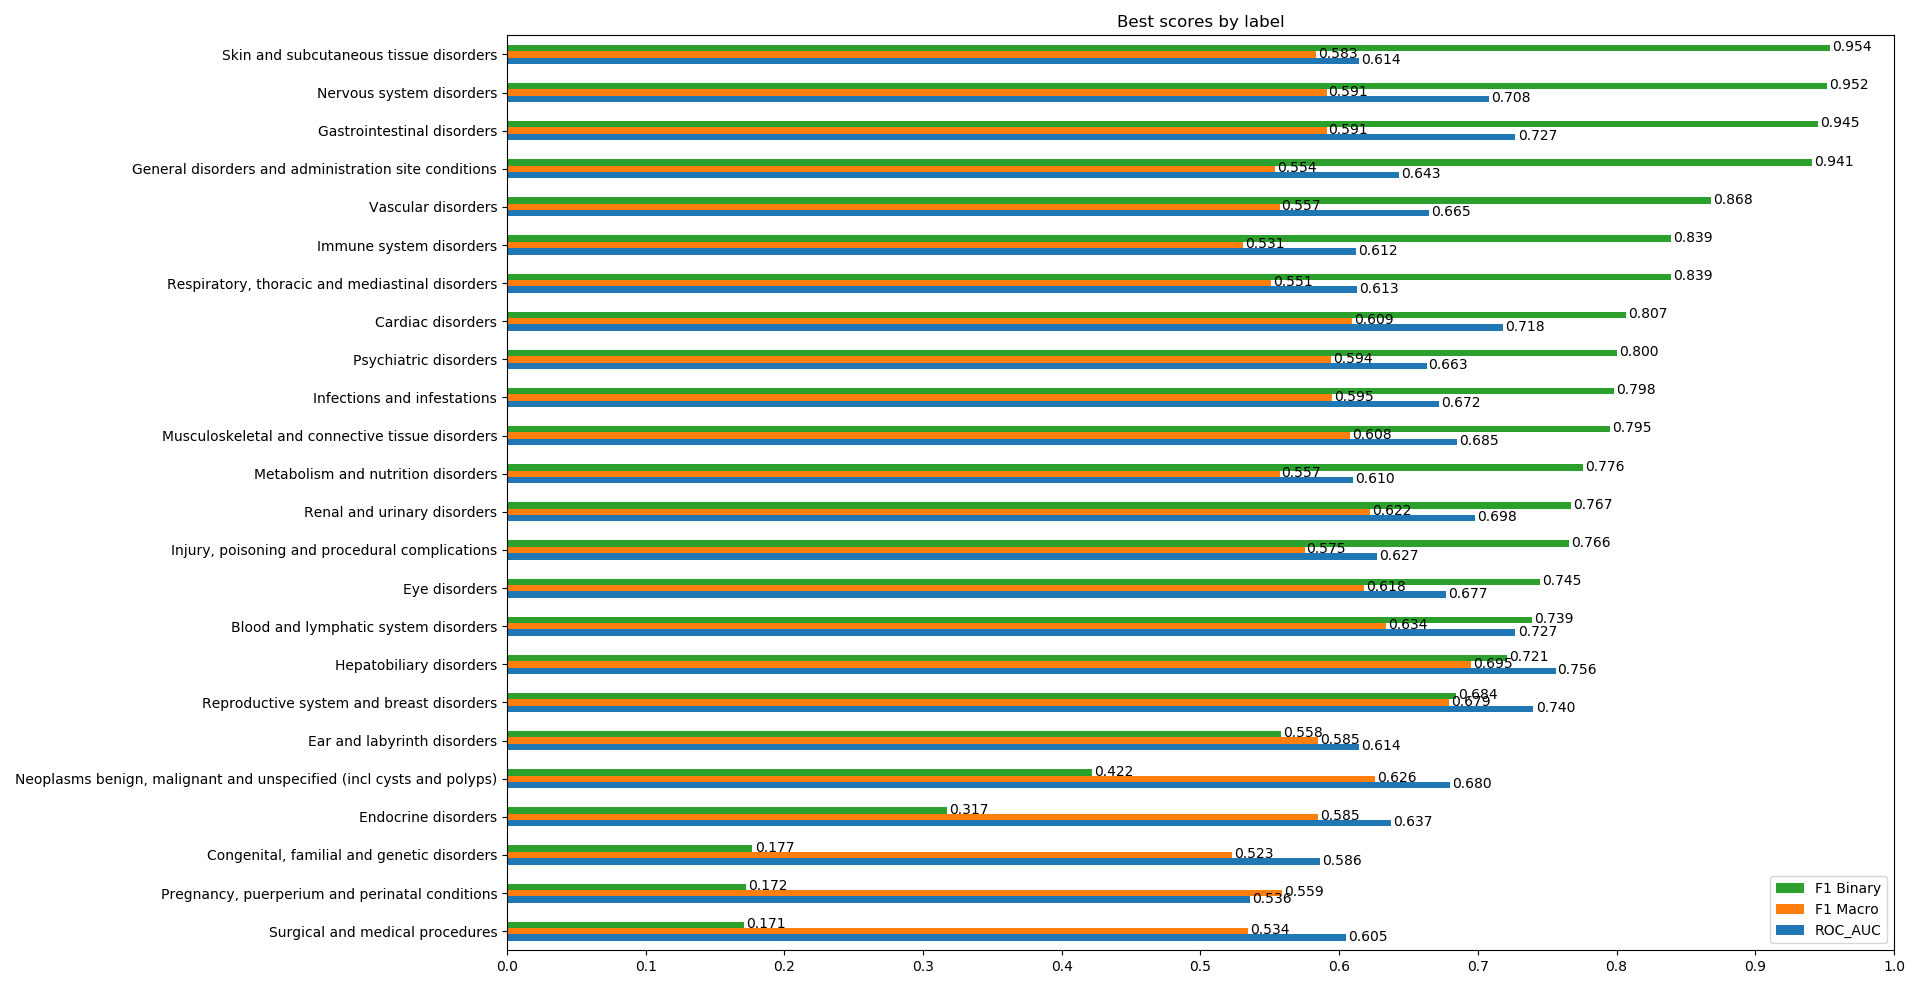
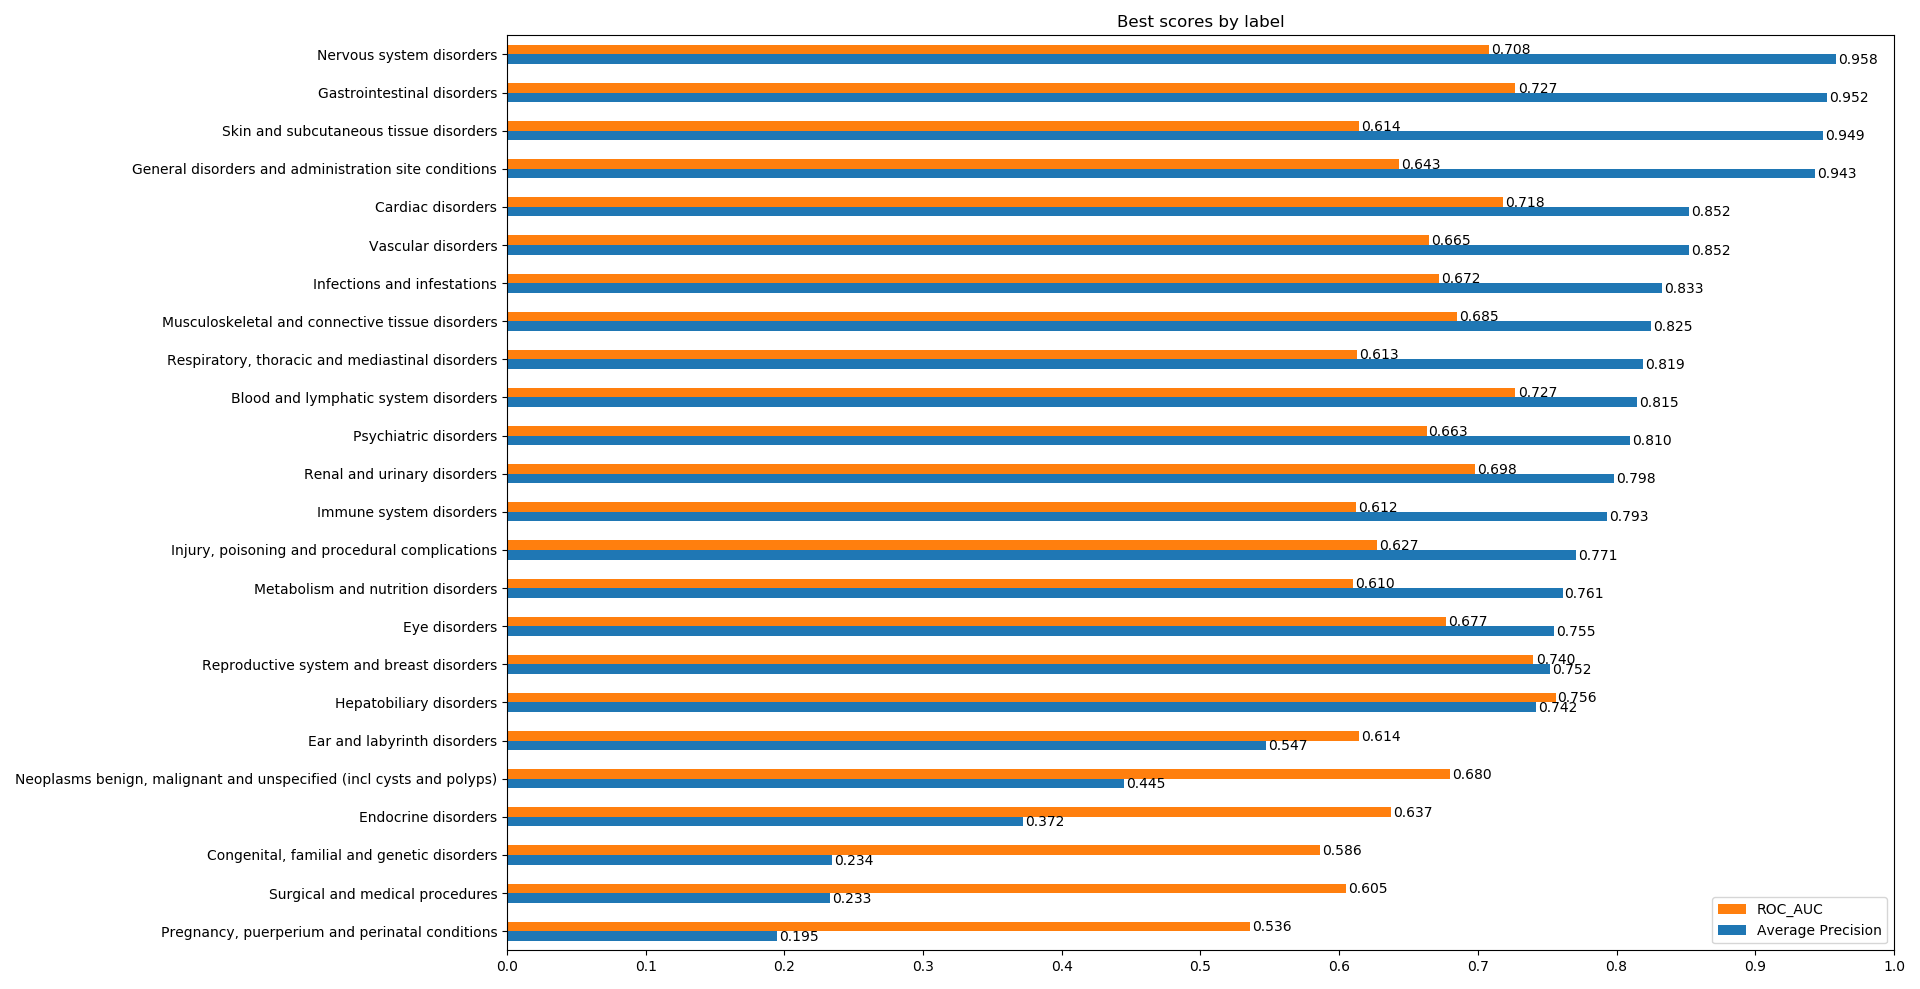
Add new metric, update results

diff --git a/mlprocess.py b/mlprocess.py
@@ -13,11 +13,10 @@ import xgboost as xgb
 
 # Misc
 from rdkit import Chem
-from sklearn.decomposition import PCA
 from sklearn.model_selection import GridSearchCV, cross_validate, RandomizedSearchCV, StratifiedKFold
 from sklearn.feature_selection import SelectKBest, f_classif
 from sklearn.metrics import classification_report, confusion_matrix, precision_score, recall_score, f1_score, \
-    accuracy_score, roc_auc_score
+    roc_auc_score, precision_recall_curve, average_precision_score
 from imblearn.pipeline import make_pipeline
 from imblearn.over_sampling import SMOTENC
 from collections import Counter
@@ -398,8 +397,8 @@ def random_search(X_train, y_train, model, params_to_test, X_test=None, y_test=N
 
 
 def multi_label_random_search(X_train_dic, y_train, out_names, model, params_to_test, balancing=False, X_test=None,
-                              y_test=None,
-                              n_iter=100, n_splits=5, scoring="f1", n_jobs=-1, verbose=False, random_state=None):
+                              y_test=None, n_iter=100, n_splits=5, scoring="f1", n_jobs=-1, verbose=False,
+                              random_state=None):
     # Creates a dictionary with the best params in regards to chosen metric for each label
 
     # Creates the dictionary
@@ -427,9 +426,11 @@ def multi_label_random_search(X_train_dic, y_train, out_names, model, params_to_
     return best_params_by_label
 
 
-def score_report(estimator, X_test, y_test, verbose=False):
+def score_report(estimator, X_test, y_test, verbose=False, plot=False, name=None):
     # Predicting value
     y_true, y_pred = y_test, estimator.predict(X_test)
+    y_score = estimator.predict_proba(X_test)
+    y_score = y_score[:, 1]
 
     # Individual metrics
     f1_micr_score = f1_score(y_true, y_pred, average="micro")
@@ -438,6 +439,7 @@ def score_report(estimator, X_test, y_test, verbose=False):
     auc = roc_auc_score(y_true, y_pred)
     rec = recall_score(y_true, y_pred, average="binary")
     prec = precision_score(y_true, y_pred, average="binary")
+    average_precision = average_precision_score(y_true, y_score)
 
     # Detailed Classification report
     if verbose:
@@ -464,14 +466,35 @@ def score_report(estimator, X_test, y_test, verbose=False):
         print(f"ROC-AUC score: {auc:.3f}")
         print(f"Recall score: {rec:.3f}")
         print(f"Precision score: {prec:.3f}")
+        print(f"Average precision-recall score: {average_precision:.3f}")
         print()
 
+        if plot:
+            precision, recall, _ = precision_recall_curve(y_true, y_score)
+
+            # step_kwargs = ({'step': 'post'}
+            #                if 'step' in signature(plt.fill_between).parameters
+            #                else {})
+
+            plt.step(recall, precision, color="r", alpha=0.2, where="post")
+            plt.fill_between(recall, precision, step="post", alpha=0.2, color="#F59B00")
+
+            plt.xlabel("Recall")
+            plt.ylabel("Precision")
+            plt.ylim([0.0, 1.05])
+            plt.xlim([0.0, 1.0])
+            plt.title(f'{name} \n Precision-Recall curve: AP={average_precision:0.2f}')
+
+            plt.savefig(f"./results/{name} Precision-Recall curve.png")
+
+            plt.clf()
+
         return {"f1_micr_score": f1_micr_score, "auc_score": auc, "rec_score": rec, "prec_score": prec,
-                "f1_macro_score": f1_macro_score, "f1_s_score": f1_s_score, }
+                "f1_macro_score": f1_macro_score, "f1_s_score": f1_s_score, "prec_rec_score": average_precision}
 
 
 def cv_report(estimator, X_train, y_train, balancing=False, n_splits=5,
-              scoring_metrics=("f1_micro", "f1_macro", "f1", "roc_auc", "recall", "precision"),
+              scoring_metrics = ("f1_micro", "f1_macro", "f1", "roc_auc", "recall", "precision", "average_precision"),
               random_state=None, n_jobs=-1, verbose=False):
     if balancing:
         # Save index of categorical features
@@ -480,13 +503,13 @@ def cv_report(estimator, X_train, y_train, balancing=False, n_splits=5,
         # Prepare SMOTENC
         smotenc = SMOTENC(categorical_features=cat_shape, random_state=random_state, n_jobs=n_jobs)
         # Make a pipeline with the balancing and the estimator, balacing is only called when fitting
-        pipeline = make_pipeline(smotenc, pca, estimator)
+        pipeline = make_pipeline(smotenc, estimator)
         # Determine stratified k folds
         kf = StratifiedKFold(n_splits=n_splits, random_state=random_state)
         # Call cross validate
         scores = cross_validate(pipeline, np.asarray(X_train), np.asarray(y_train), scoring=scoring_metrics, cv=kf,
                                 n_jobs=n_jobs, verbose=verbose, return_train_score=False)
-    
+
     else:
         # Normal cross validation
         kf = StratifiedKFold(n_splits=n_splits, random_state=random_state)
@@ -500,6 +523,7 @@ def cv_report(estimator, X_train, y_train, balancing=False, n_splits=5,
     auc_s = np.mean(scores["test_roc_auc"])
     rec_s = np.mean(scores["test_recall"])
     prec_s = np.mean(scores["test_precision"])
+    avp_s = np.mean(scores["test_average_precision"])
 
     # STD
     f1_std = np.std(scores["test_f1_micro"])
@@ -508,6 +532,7 @@ def cv_report(estimator, X_train, y_train, balancing=False, n_splits=5,
     auc_std = np.std(scores["test_roc_auc"])
     rec_std = np.std(scores["test_recall"])
     prec_std = np.std(scores["test_precision"])
+    avp_std = np.std(scores["test_average_precision"])
 
     if verbose:
         print()
@@ -518,20 +543,20 @@ def cv_report(estimator, X_train, y_train, balancing=False, n_splits=5,
         print(f"ROC-AUC score: Mean: {auc_s:.3f} (Std: {auc_std:.3f})")
         print(f"Recall score: Mean: {rec_s:.3f} (Std: {rec_std:.3f})")
         print(f"Precision score: Mean: {prec_s:.3f} (Std: {prec_std:.3f})")
+        print(f"Average Precision score: Mean: {avp_s:.3f} (Std: {avp_std:.3f})")
         print()
 
     return {"f1_micr_score": f1_s, "f1_micr_std": f1_std, "auc_score": auc_s, "auc_std": auc_std, "rec_score": rec_s,
             "rec_std": rec_std, "prec_score": prec_s, "prec_std": prec_std, "f1_macro_score": f1_ms,
-            "f1_macro_std": f1_mstd, "f1_score": f1_bs, "f1_std": f1_bstd}
+            "f1_macro_std": f1_mstd, "f1_score": f1_bs, "f1_std": f1_bstd, "avp_score": avp_s, "avp_std": avp_std}
 
 
 def cv_multi_report(X_train_dic, y_train, out_names, model=None, balancing=False, modelname=None, spec_params=None,
                     random_state=None, n_splits=5, n_jobs=-1, verbose=False):
     # Creates a scores report dataframe for each classification label with cv
     # Initizalize the dataframe
-    report = pd.DataFrame(columns=["F1 Binary", "F1 Micro", "F1 Macro", "ROC_AUC", "Recall", "Precision"],
-                          index=out_names)
-    scoring_metrics = ("f1_micro", "f1_macro", "f1", "roc_auc", "recall", "precision")
+    report = pd.DataFrame(columns=["F1 Binary", "F1 Micro", "F1 Macro", "ROC_AUC", "Recall", "Precision", "Average Precision"], index=out_names)
+    scoring_metrics = ("f1_micro", "f1_macro", "f1", "roc_auc", "recall", "precision", "average_precision")
 
     # For each label
     for name in tqdm(out_names):
@@ -542,7 +567,7 @@ def cv_multi_report(X_train_dic, y_train, out_names, model=None, balancing=False
         if spec_params:
             # Define the specific parameters for each model for each label
             if modelname[name] == "SVC":
-                model_temp = SVC(random_state=random_state)
+                model_temp = SVC(random_state=random_state, probability=True)
                 model_temp.set_params(C=spec_params[name]["svc__C"],
                                       gamma=spec_params[name]["svc__gamma"],
                                       kernel=spec_params[name]["svc__kernel"])
@@ -603,12 +628,13 @@ def cv_multi_report(X_train_dic, y_train, out_names, model=None, balancing=False
         report.loc[name, "ROC_AUC"] = round(float(scores["auc_score"]), 3)
         report.loc[name, "Recall"] = round(float(scores["rec_score"]), 3)
         report.loc[name, "Precision"] = round(float(scores["prec_score"]), 3)
+        report.loc[name, "Average Precision"] = round(float(scores["avp_score"]), 3)
     report = report.apply(pd.to_numeric)
     return report
 
 
 def test_score_multi_report(X_train_dic, y_train, X_test, y_test, out_names, model=None, modelname=None,
-                            spec_params=None, balancing=False, random_state=None, verbose=False, n_jobs=-1):
+                            spec_params=None, balancing=False, random_state=None, plot=False, verbose=False, n_jobs=-1):
     # Creates a scores report dataframe for each classification label with cv
     # Initizalize the dataframe
     report = pd.DataFrame(columns=["F1 Binary", "F1 Micro", "F1 Macro", "ROC_AUC", "Recall", "Precision"],
@@ -623,7 +649,7 @@ def test_score_multi_report(X_train_dic, y_train, X_test, y_test, out_names, mod
         if spec_params:
             # Define the specific parameters for each model for each label
             if modelname[name] == "SVC":
-                model_temp = SVC(random_state=random_state)
+                model_temp = SVC(random_state=random_state, probability=True)
                 model_temp.set_params(C=spec_params[name]["svc__C"],
                                       gamma=spec_params[name]["svc__gamma"],
                                       kernel=spec_params[name]["svc__kernel"])
@@ -657,11 +683,13 @@ def test_score_multi_report(X_train_dic, y_train, X_test, y_test, out_names, mod
                 pipeline = make_pipeline(smotenc, model_temp)
                 # Fit and test
                 pipeline.fit(np.asarray(X_train_dic[name]), np.asarray(y_train[name]))
-                scores = score_report(pipeline, np.asarray(X_test[name]), np.asarray(y_test[name]), verbose=verbose)
+                scores = score_report(pipeline, np.asarray(X_test[name]), np.asarray(y_test[name]), plot=plot,
+                                      verbose=verbose, name=name)
 
             else:
                 model_temp.fit(np.asarray(X_train_dic[name]), np.asarray(y_train[name]))
-                scores = score_report(model_temp, np.asarray(X_test[name]), np.asarray(y_test[name]), verbose=verbose)
+                scores = score_report(model_temp, np.asarray(X_test[name]), np.asarray(y_test[name]), plot=plot,
+                                      verbose=verbose, name=name)
 
         else:
             if balancing:
@@ -675,11 +703,13 @@ def test_score_multi_report(X_train_dic, y_train, X_test, y_test, out_names, mod
                 pipeline = make_pipeline(smotenc, model)
                 # Fit and test
                 pipeline.fit(np.asarray(X_train_dic[name]), np.asarray(y_train[name]))
-                scores = score_report(pipeline, np.asarray(X_test[name]), np.asarray(y_test[name]), verbose=verbose)
+                scores = score_report(pipeline, np.asarray(X_test[name]), np.asarray(y_test[name]), plot=plot,
+                                      verbose=verbose, name=name)
 
             else:
                 model.fit(np.asarray(X_train_dic[name]), np.asarray(y_train[name]))
-                scores = score_report(model, np.asarray(X_test[name]), np.asarray(y_test[name]), verbose=verbose)
+                scores = score_report(model, np.asarray(X_test[name]), np.asarray(y_test[name]), plot=plot,
+                                      verbose=verbose, name=name)
 
         report.loc[name, "F1 Micro"] = round(float(scores["f1_micr_score"]), 3)
         report.loc[name, "F1 Macro"] = round(float(scores["f1_macro_score"]), 3)
@@ -687,6 +717,8 @@ def test_score_multi_report(X_train_dic, y_train, X_test, y_test, out_names, mod
         report.loc[name, "ROC_AUC"] = round(float(scores["auc_score"]), 3)
         report.loc[name, "Recall"] = round(float(scores["rec_score"]), 3)
         report.loc[name, "Precision"] = round(float(scores["prec_score"]), 3)
+        report.loc[name, "Average Prec-Rec"] = round(float(scores["prec_rec_score"]), 3)
+        # prec_rec_score
     report = report.apply(pd.to_numeric)
     return report
 

diff --git a/main.py b/main.py
@@ -47,11 +47,13 @@ modelnamerf = {name: "RF" for name in out_names}
 modelnamexgb = {name: "XGB" for name in out_names}
 modelnamevot = {name: "VotingClassifier" for name in out_names}
 
+""" Analysis """
 d = {"Positives": y_all.sum(axis=0), "Negatives": 1427 - y_all.sum(axis=0)}
 countsm = pd.DataFrame(data=d)
-df_perc = countsm/1427
+df_perc = countsm / 1427
 countsm.plot(kind='bar', figsize=(14, 8), title="Adverse Drug Reactions Counts", ylim=(0, 1500), stacked=True)
 df_perc.plot(kind="bar")
+
 """ML PROCESS"""
 # SVC
 print("SVC")
@@ -81,7 +83,9 @@ print("Improved SVC with balancing:")
 impr_bal_svc_report = cv_multi_report(X_train_dic, y_train, out_names, modelname=modelnamesvc,
                                       spec_params=best_SVC_params_by_label, balancing=True, n_splits=5, n_jobs=-2,
                                       verbose=True, random_state=seed)
-diff_impr_svc = impr_bal_svc_report - base_bal_svc_report
+# impr_bal_svc_report.sort_values(by=["Average Precision"], ascending=False, inplace=True)
+# impr_bal_svc_report.to_csv("./results/impr_bal_svc_report.csv")
+# diff_impr_svc = impr_bal_svc_report - base_bal_svc_report
 # ax2 = diff_impr.plot.barh()
 
 # RF
@@ -124,8 +128,9 @@ print("Improved RF with balancing:")
 impr_bal_rf_report = cv_multi_report(X_train_dic, y_train, out_names, modelname=modelnamerf,
                                      spec_params=best_RF_params_by_label, balancing=True, n_splits=5, n_jobs=-2,
                                      verbose=True, random_state=seed)
-
-diff_impr_rf = impr_bal_rf_report - base_bal_rf_report
+# impr_bal_rf_report.sort_values(by=["Average Precision"], ascending=False, inplace=True)
+# impr_bal_rf_report.to_csv("./results/impr_bal_rf_report.csv")
+# diff_impr_rf = impr_bal_rf_report - base_bal_rf_report
 # ax2 = diff_impr_rf.plot.barh()
 
 
@@ -171,7 +176,8 @@ print("Improved XGB with balancing:")
 impr_bal_xgb_report = cv_multi_report(X_train_dic, y_train, out_names, modelname=modelnamexgb,
                                       spec_params=best_xgb_params_by_label, balancing=True, n_splits=5, n_jobs=-2,
                                       verbose=True, random_state=seed)
-
+# impr_bal_xgb_report.sort_values(by=["Average Precision"], ascending=False, inplace=True)
+# impr_bal_xgb_report.to_csv("./results/impr_bal_xgb_report.csv")
 # diff_impr_xgb = impr_bal_xgb_report - base_bal_xgb_report
 ##xg1 = impr_bal_xgb_report.plot.barh(y=["F1","Recall"])
 # # xg2 = diff_impr_xgb.plot.barh()
@@ -222,6 +228,11 @@ prec_s = {"SVC": impr_bal_svc_report["Precision"],
           "XGB": impr_bal_xgb_report["Precision"]}
 all_prec_score = pd.DataFrame(data=prec_s, dtype=float)
 
+av_prec = {"SVC": impr_bal_svc_report["Average Precision"],
+           "RF": impr_bal_rf_report["Average Precision"],
+           "XGB": impr_bal_xgb_report["Average Precision"]}
+all_av_prec = pd.DataFrame(data=av_prec, dtype=float)
+
 # Creating a dictionary with Key = label, value = model name
 # best_model_by_label = all_f1_score.idxmax(axis=1).to_dict()
 # pprint(best_model_by_label)
@@ -244,13 +255,18 @@ for label in out_names:
 scores_best_model = cv_multi_report(X_train_dic, y_train, out_names, modelname=best_model_by_label,
                                     spec_params=best_model_params_by_label, balancing=True, n_splits=5, n_jobs=-2,
                                     verbose=True, random_state=seed)
-scores_best_model.sort_values(by=["F1 Micro"], ascending=False, inplace=True)
-# scores_best_model.to_csv("./results/cv_best_model_scores.csv")
+scores_best_model.sort_values(by=["Average Precision"], ascending=False, inplace=True)
+scores_best_model.to_csv("./results/cv_best_model_scores.csv")
 
-
-scores_best_model_pca = cv_multi_report(X_train_dic, y_train, out_names[:5], modelname=best_model_by_label,
-                                        spec_params=best_model_params_by_label, balancing=True, n_splits=5, n_jobs=-2,
-                                        verbose=True, random_state=seed)
+# Best model cv score graph
+ax = scores_best_model.sort_values(by=["Average Precision"]).plot(kind="barh",
+                                                                  y=["Average Precision", "ROC_AUC"],
+                                                                  title="Best scores by label",
+                                                                  xticks=[0, 0.1, 0.2, 0.3, 0.4, 0.5, 0.6, 0.7, 0.8,
+                                                                          0.9, 1],
+                                                                  legend="reverse", xlim=(0, 1))
+for p in ax.patches: ax.annotate("{:.3f}".format(round(p.get_width(), 3)), (p.get_x() + p.get_width(), p.get_y()),
+                                 xytext=(30, 0), textcoords='offset points', horizontalalignment='right')
 
 # Test score voting
 scores_voting = cv_multi_report(X_train_dic, y_train, out_names, modelname=modelnamevot,
@@ -258,22 +274,21 @@ scores_voting = cv_multi_report(X_train_dic, y_train, out_names, modelname=model
                                     best_SVC_params_by_label, best_RF_params_by_label, best_xgb_params_by_label),
                                 balancing=True, n_splits=5, n_jobs=-2, verbose=True, random_state=seed)
 
-# Best model cv score graph
-ax = scores_best_model.sort_values(by=["F1 Micro"]).plot(kind="barh",
-                                                         y=["ROC_AUC", "F1 Macro", "F1 Binary"],
-                                                         title="Best scores by label",
-                                                         xticks=[0, 0.1, 0.2, 0.3, 0.4, 0.5, 0.6, 0.7, 0.8, 0.9, 1],
-                                                         legend="reverse", xlim=(0, 1))
-for p in ax.patches: ax.annotate("{:.3f}".format(round(p.get_width(), 3)), (p.get_x() + p.get_width(), p.get_y()),
-                                 xytext=(30, 0), textcoords='offset points', horizontalalignment='right')
-
 # Test scores for each label
 test_scores_best_model = test_score_multi_report(X_train_dic, y_train, X_test_dic, y_test, out_names,
                                                  modelname=best_model_by_label, spec_params=best_model_params_by_label,
-                                                 random_state=seed, verbose=True, balancing=True, n_jobs=-2)
-test_scores_best_model.sort_values(by=["F1 Micro"], ascending=False, inplace=True)
-# test_scores_best_model.to_csv("./results/test_scores_best_model.csv")
+                                                 random_state=seed, verbose=True, balancing=True, n_jobs=-2, plot=True)
 
+# test_scores_best_model.sort_values(by=["Average Prec-Rec"], ascending=False, inplace=True)
+# test_scores_best_model.to_csv("./results/test_scores_best_model.csv")
+ax = test_scores_best_model.sort_values(by=["Average Prec-Rec"]).plot(kind="barh",
+                                                                      y=["Average Prec-Rec", "ROC_AUC"],
+                                                                      title="Best scores by label",
+                                                                      xticks=[0, 0.1, 0.2, 0.3, 0.4, 0.5, 0.6, 0.7, 0.8,
+                                                                              0.9, 1],
+                                                                      legend="reverse", xlim=(0, 1))
+for p in ax.patches: ax.annotate("{:.3f}".format(round(p.get_width(), 3)), (p.get_x() + p.get_width(), p.get_y()),
+                                 xytext=(30, 0), textcoords='offset points', horizontalalignment='right')
 
 """OFFSIDES DATASET"""
 # mod_off = create_offside_df(out_names=out_names, write=False)
@@ -287,9 +302,6 @@ df_y_2 = mod_off.drop("smiles", axis=1)
 d2 = {"Positives": df_y_2.sum(axis=0), "Negatives": 1332 - df_y_2.sum(axis=0)}
 counts = pd.DataFrame(data=d2)
 counts.plot(kind='bar', figsize=(14, 8), title="Adverse Drug Reactions Counts", ylim=(0, 1400), stacked=True)
-
-
-
 
 # Merging datasets
 df_wo_ofs = df.loc[~df["smiles"].isin(dups), :].copy()  # (711, 28)
@@ -306,10 +318,9 @@ counts.plot(kind='bar', figsize=(14, 8), title="Adverse Drug Reactions Counts (S
             stacked=True)
 
 # df_perc is percentage in sider
-perc_da2 = counts/2043
+perc_da2 = counts / 2043
 
-diff_from_sider = perc_da2-df_perc
-
+diff_from_sider = perc_da2 - df_perc
 
 df_off_y, df_off_mols = create_original_df(usedf=True, file=df_all, write_s=False, write_off=False)
 df_off_mols.drop("smiles", axis=1, inplace=True)
@@ -336,8 +347,11 @@ X_off_train_dic, X_off_test_dic, selected_off_cols = create_dataframes_dic(df_of
 
 test_scores_sioff = test_score_multi_report(X_off_train_dic, y_off_train, X_off_test_dic, y_off_test, out_names,
                                             modelname=best_model_by_label, spec_params=best_model_params_by_label,
-                                            random_state=seed, verbose=True, balancing=True, n_jobs=-2)
+                                            random_state=seed, verbose=True, balancing=True, n_jobs=-2, plot=True)
+test_scores_sioff.sort_values(by=["Average Prec-Rec"], ascending=False, inplace=True)
+test_scores_sioff.to_csv("./results/test_scores_sioff.csv")
 
+# Differences after joining offsides dataset
 diff_offsides = test_scores_sioff - test_scores_best_model
-
-
+diff_offsides.sort_values(by=["Average Prec-Rec"], ascending=False, inplace=True)
+diff_offsides.to_csv("./results/diff_offsides.csv")

diff --git a/params_by_label.py b/params_by_label.py
@@ -372,7 +372,7 @@ best_xgb_params_by_label = {'Blood and lymphatic system disorders': {'xgbclassif
 best_model_by_label = {'Blood and lymphatic system disorders': 'RF',
                        'Cardiac disorders': 'RF',
                        'Congenital, familial and genetic disorders': 'XGB',
-                       'Ear and labyrinth disorders': 'SVC',
+                       'Ear and labyrinth disorders': 'RF',
                        'Endocrine disorders': 'XGB',
                        'Eye disorders': 'RF',
                        'Gastrointestinal disorders': 'RF',
